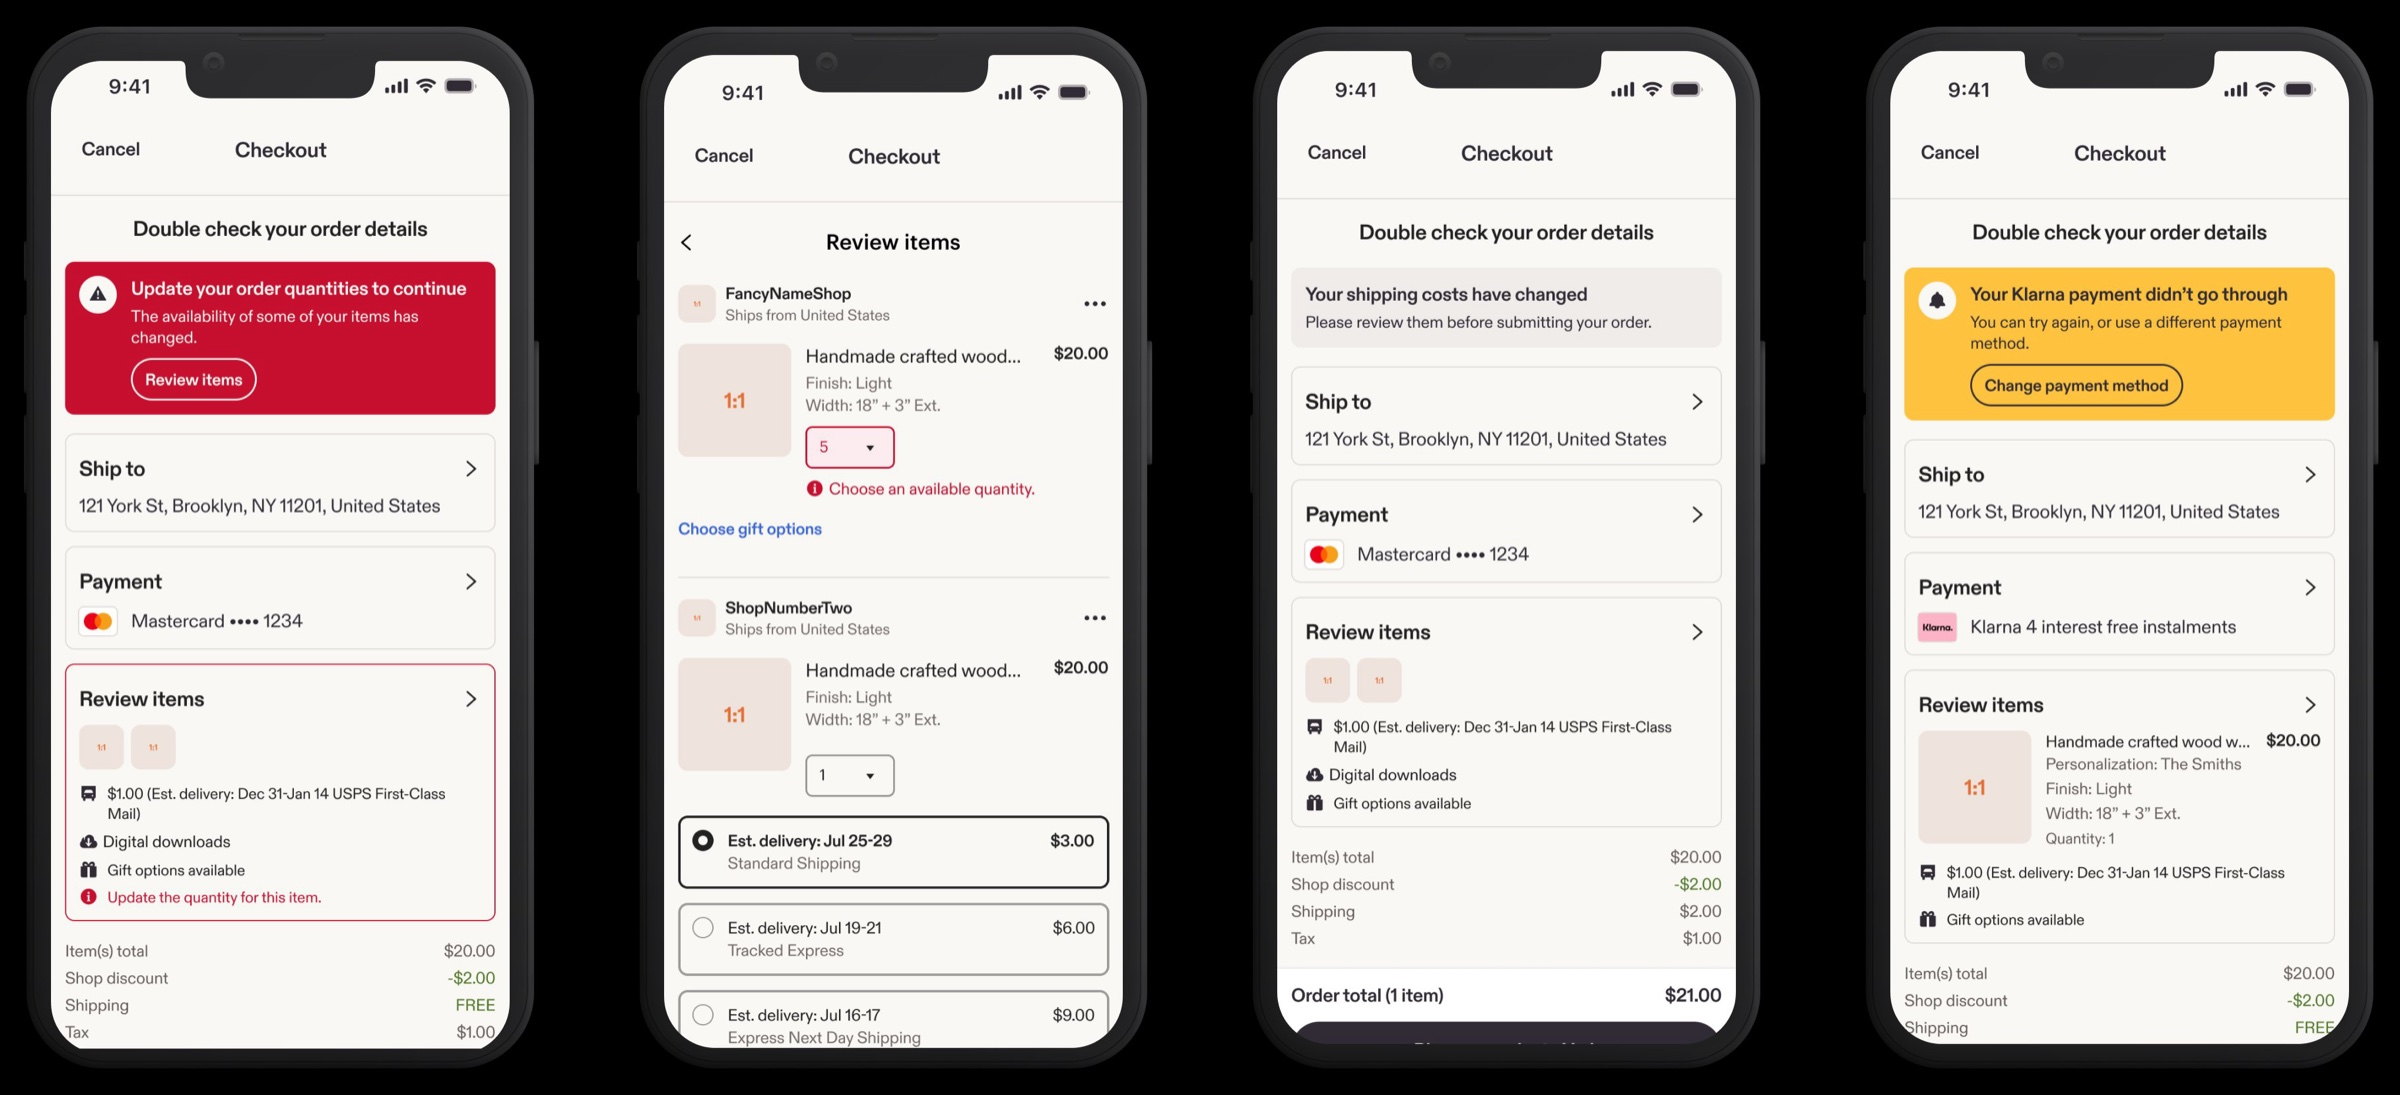
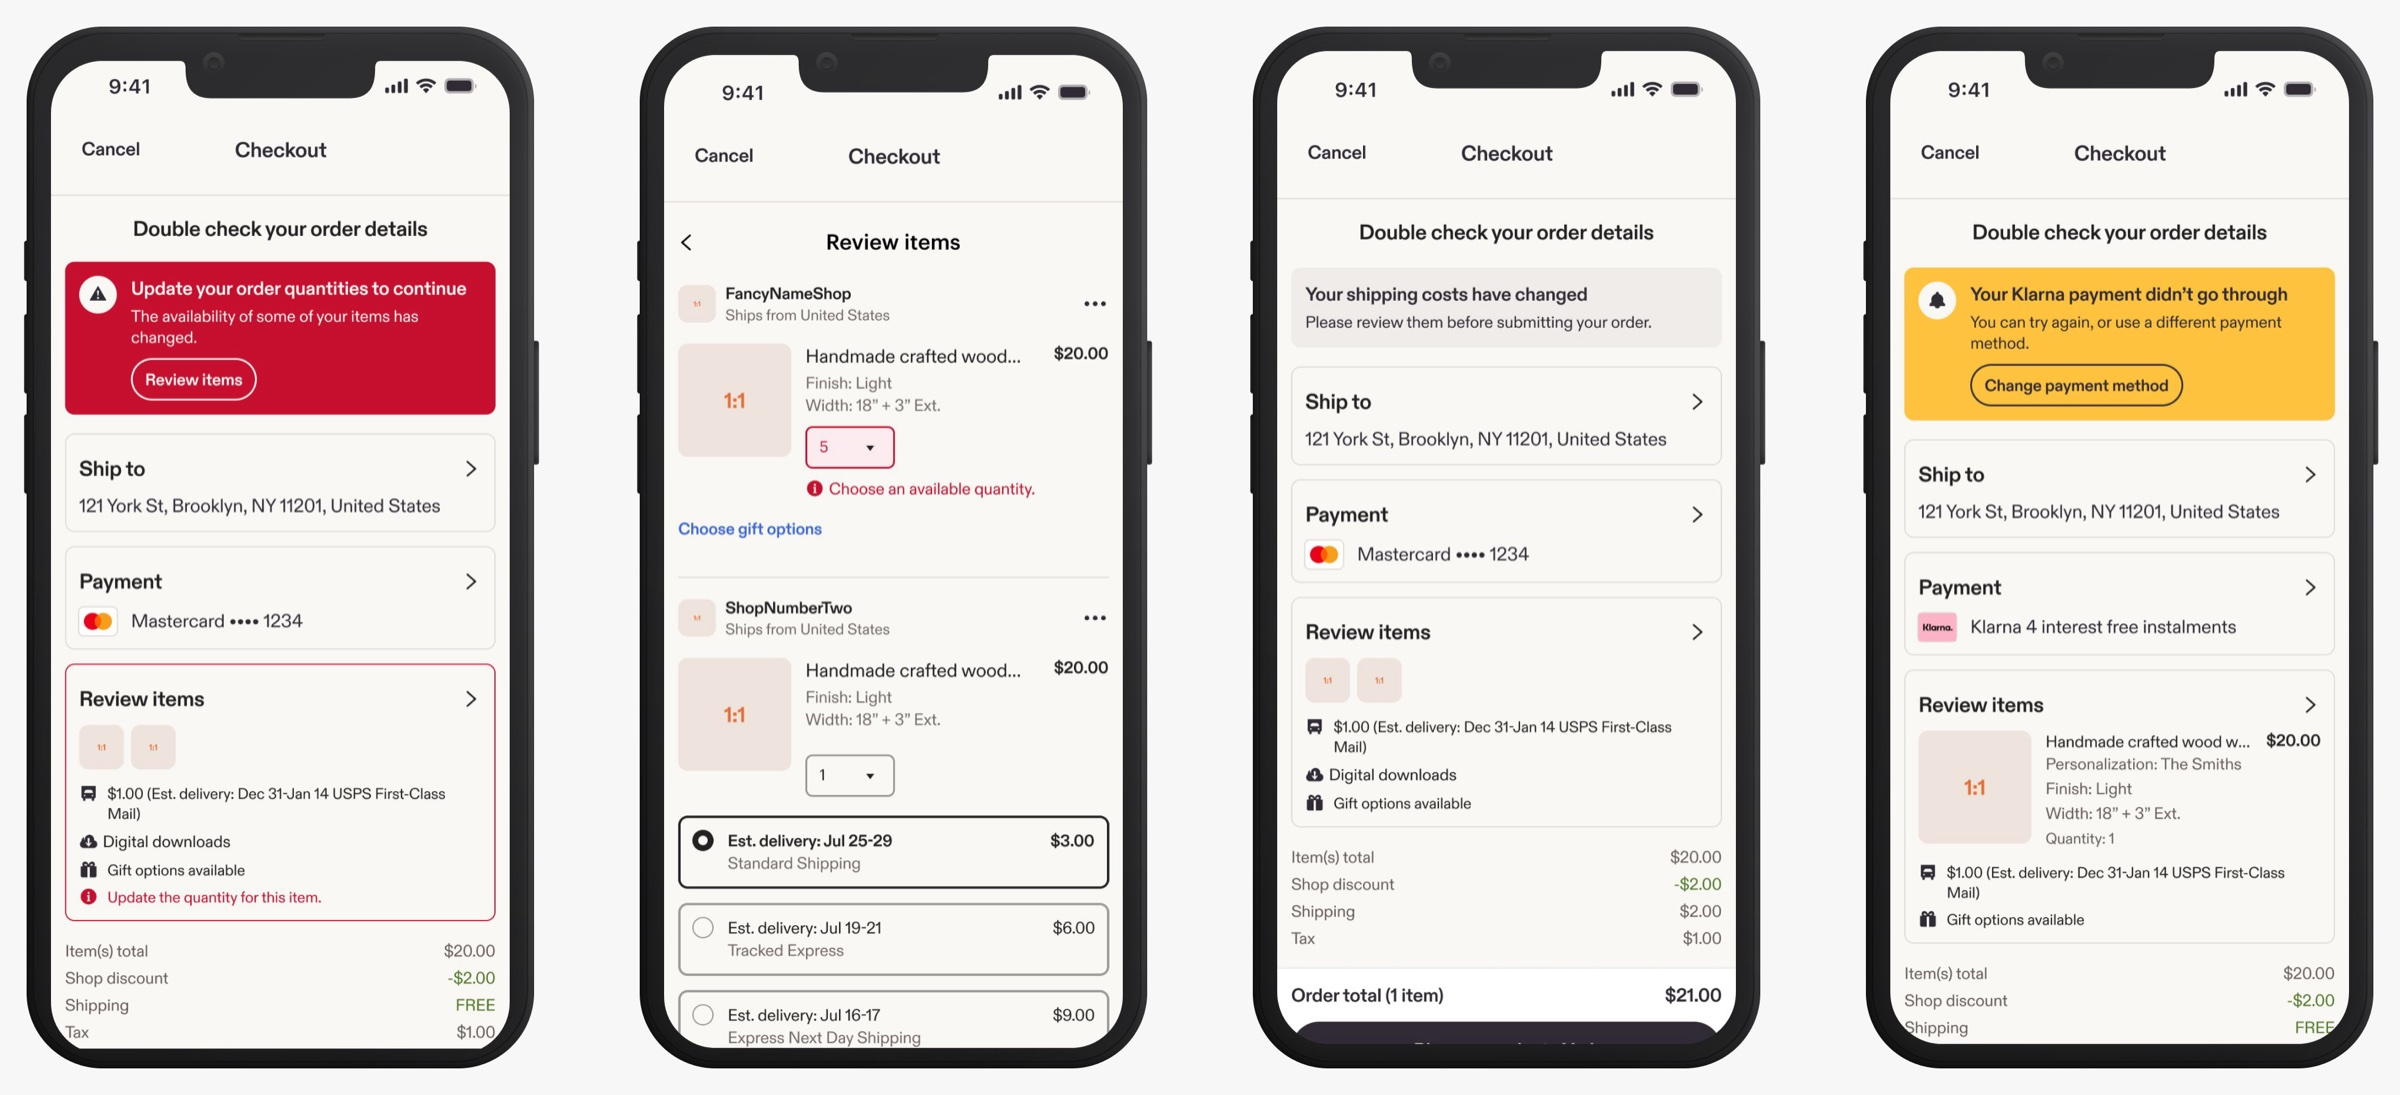
Refine the checkout-errors media: wider steps, matched experiments, fixed bg
- process-step media with a custom aspectRatio now gets a wider frame
  (321px -> 488px on desktop) while its text hugs a 400px reading
  width instead of stretching to fill the row.
- Cropped the PayPal experiment image down to card-auth's exact ratio
  (top-anchored, keeping the decline banner and payment info, losing
  only the order-total footer) so both experiment cards render at the
  same size instead of one towering over the other.
- Re-flattened the closing media card against the site's actual
  background color instead of black — the source PNG was transparent,
  not black; black was a flatten choice I made, not the source design.

Changed region(s): [[0.0, 0.0, 1.0, 1.0]]

diff --git a/src/data/cases.es.ts b/src/data/cases.es.ts
@@ -234,7 +234,7 @@ export const casesEs: CaseData[] = [
           {
             label: 'Experimento #2',
             image: etsyErrorPaypal,
-            aspectRatio: '1932 / 3078',
+            aspectRatio: '1214 / 1458',
             title: 'Redirección a PayPal: +29% de conversión tras 15 días',
             body: 'Cuando un pago con tarjeta falla por una razón de autenticación con poca probabilidad de éxito, redirigir a los compradores hacia PayPal en el mensaje de rechazo aceleró la conclusión del checkout y la conversión, en lugar de mostrar un error genérico o solo reintentos manuales.',
           },

diff --git a/src/data/cases.en.ts b/src/data/cases.en.ts
@@ -233,7 +233,7 @@ export const casesEn: CaseData[] = [
           {
             label: 'Experiment #2',
             image: etsyErrorPaypal,
-            aspectRatio: '1932 / 3078',
+            aspectRatio: '1214 / 1458',
             title: 'PayPal steering: +29% conversion lift after 15 days',
             body: 'When a card payment fails with an unlikely-to-succeed auth reason, steering buyers to PayPal in the decline message accelerated checkout completion and conversion, rather than showing a generic error or just manual retries.',
           },

diff --git a/src/components/ProcessStep/ProcessStep.css b/src/components/ProcessStep/ProcessStep.css
@@ -33,4 +33,18 @@
     width: 321px;
     flex-shrink: 0;
   }
+
+  /* Used for media with a custom aspectRatio (landscape screenshots/recordings
+     that don't fit the default portrait 321/440 frame) — the text hugs its own
+     comfortable reading width instead of stretching to fill the row, so the
+     wider media can take up the rest of the space. */
+  .process-step--wide-media .process-step__text {
+    flex: 0 1 auto;
+    max-width: 400px;
+  }
+
+  .process-step--wide-media .process-step__media {
+    width: auto;
+    flex: 1;
+  }
 }

diff --git a/src/components/ProcessStep/ProcessStep.tsx b/src/components/ProcessStep/ProcessStep.tsx
@@ -13,7 +13,9 @@ interface ProcessStepProps {
 
 export function ProcessStep({ heading, body, body2, image, aspectRatio }: ProcessStepProps) {
   return (
-    <div className={`process-step ${image ? '' : 'process-step--text-only'}`}>
+    <div
+      className={`process-step ${image ? '' : 'process-step--text-only'} ${aspectRatio ? 'process-step--wide-media' : ''}`}
+    >
       <div className="process-step__text">
         <p className="case-heading">{heading}</p>
         <div className="case-body">
